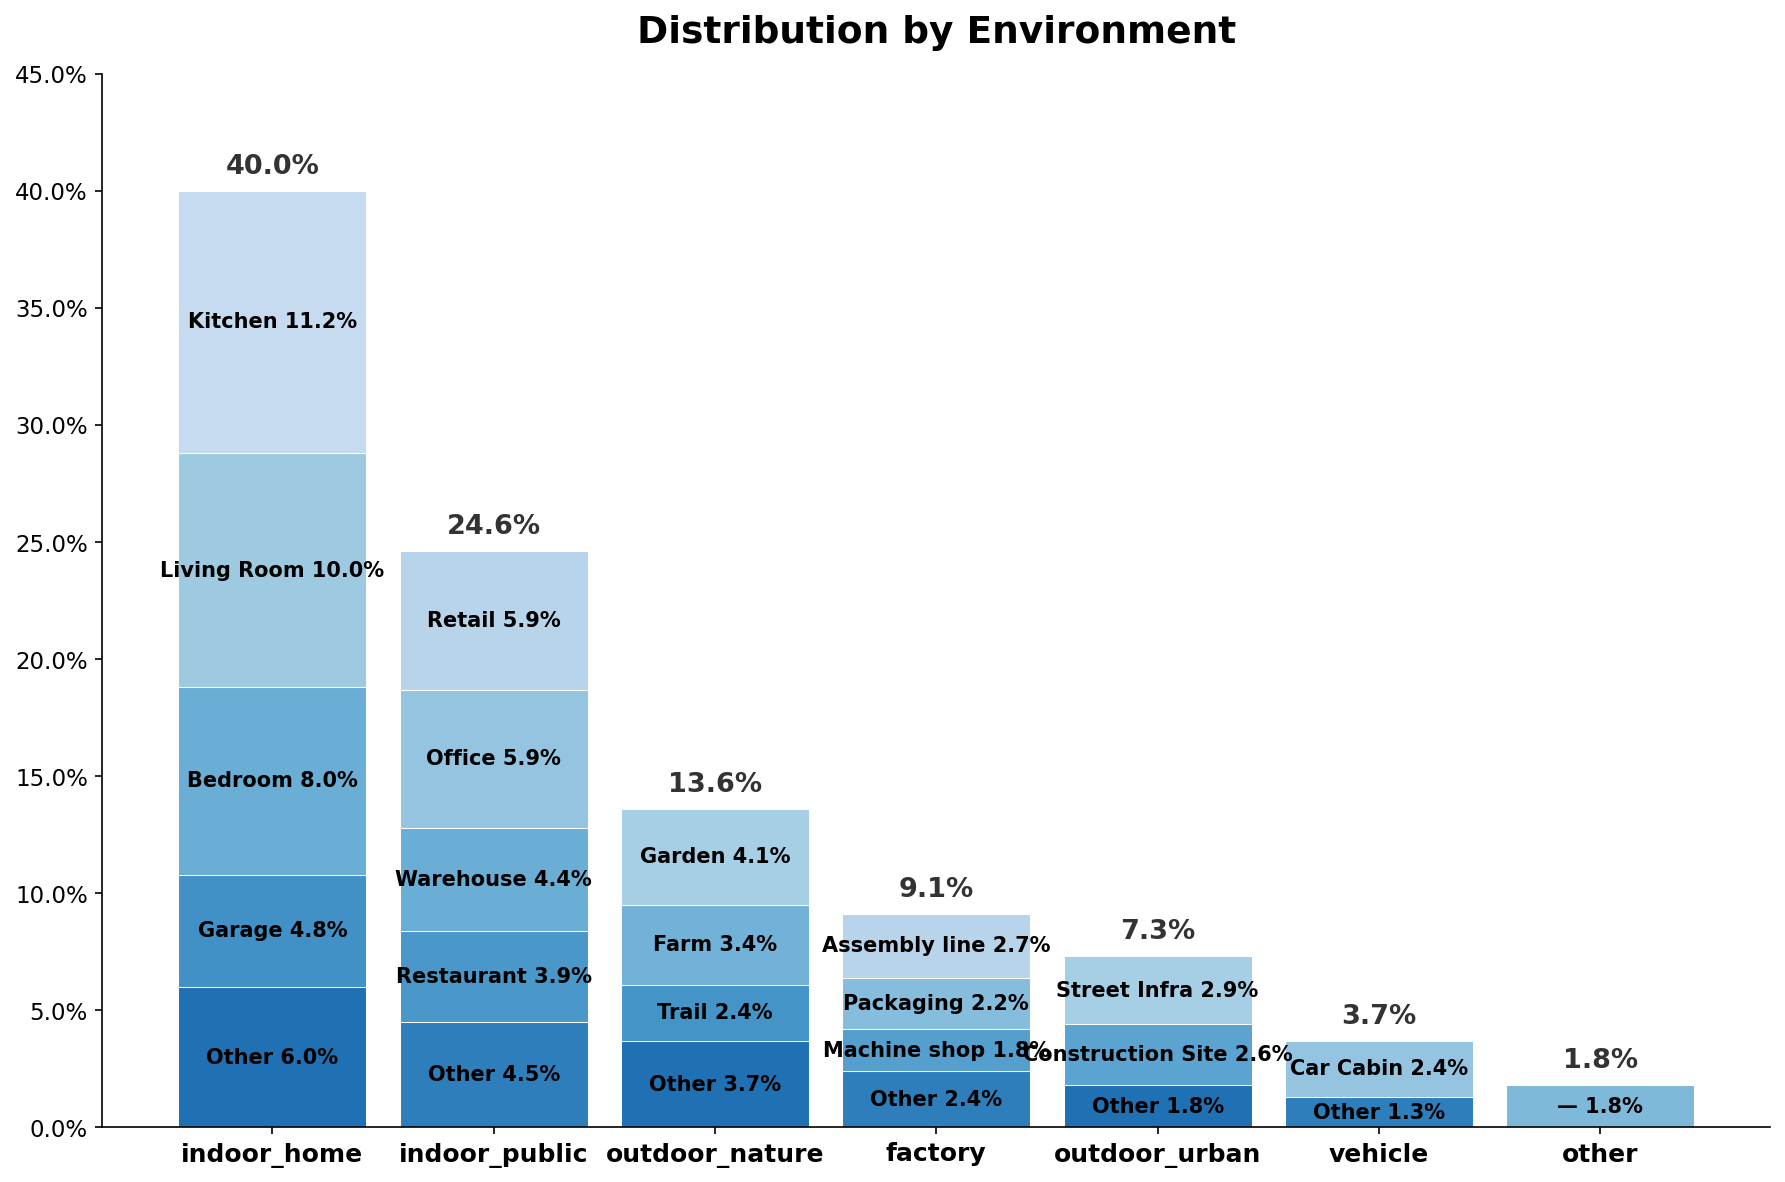
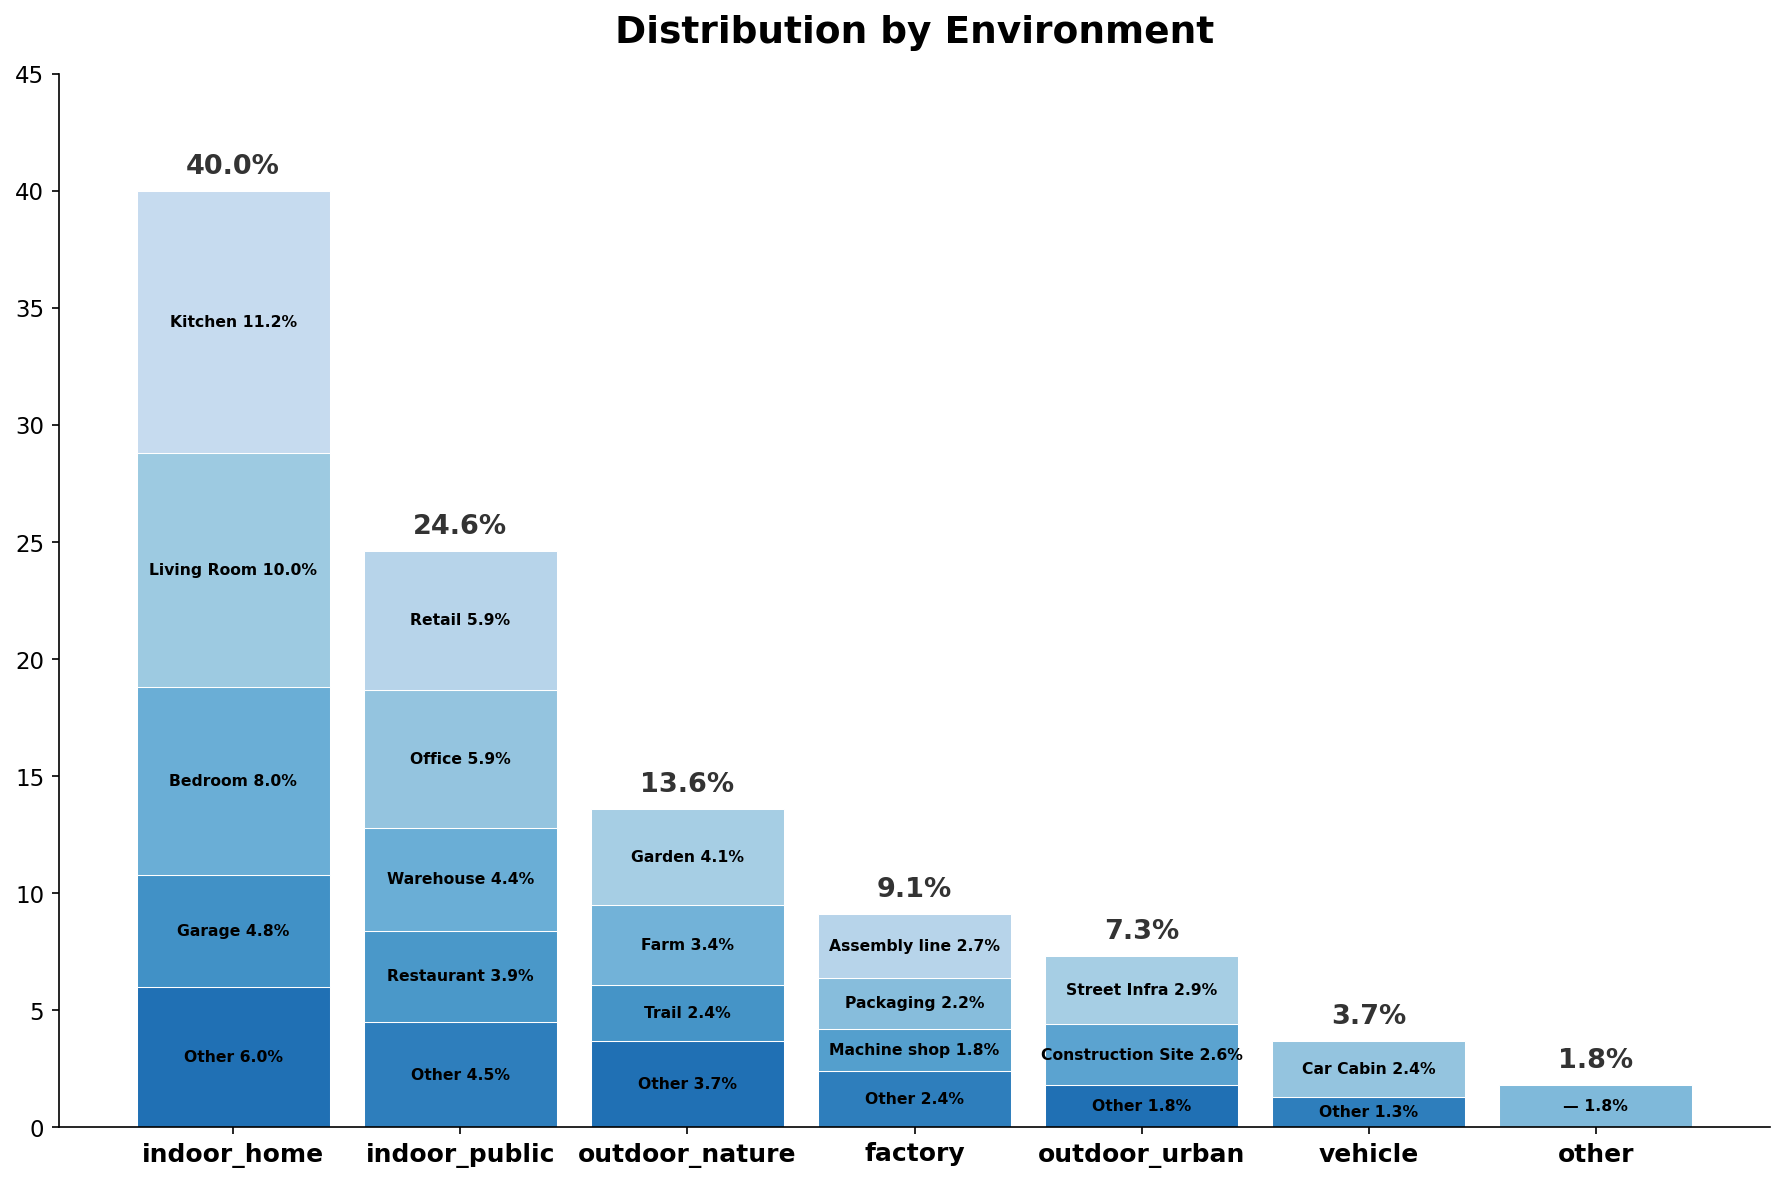
Shrink in-bar text to fit and remove y-axis percent signs
https://claude.ai/code/session_018xFGws4xpUTXJntMBVQsZP

diff --git a/stake_histogram.py b/stake_histogram.py
@@ -91,7 +91,7 @@ for i, env in enumerate(env_names):
             label,
             ha="center",
             va="center",
-            fontsize=10,
+            fontsize=7.5,
             fontweight="bold",
             color="black",
             clip_on=True,
@@ -117,7 +117,7 @@ ax.set_xticklabels(env_names, fontsize=12, fontweight="bold")
 ax.set_ylabel("")
 ax.set_title("Distribution by Environment", fontsize=18, fontweight="bold", pad=15)
 ax.tick_params(axis="y", labelsize=11)
-ax.yaxis.set_major_formatter(mticker.PercentFormatter())
+ax.yaxis.set_major_formatter(mticker.FuncFormatter(lambda x, _: f"{x:.0f}"))
 ax.set_ylim(0, 45)
 ax.spines["top"].set_visible(False)
 ax.spines["right"].set_visible(False)
